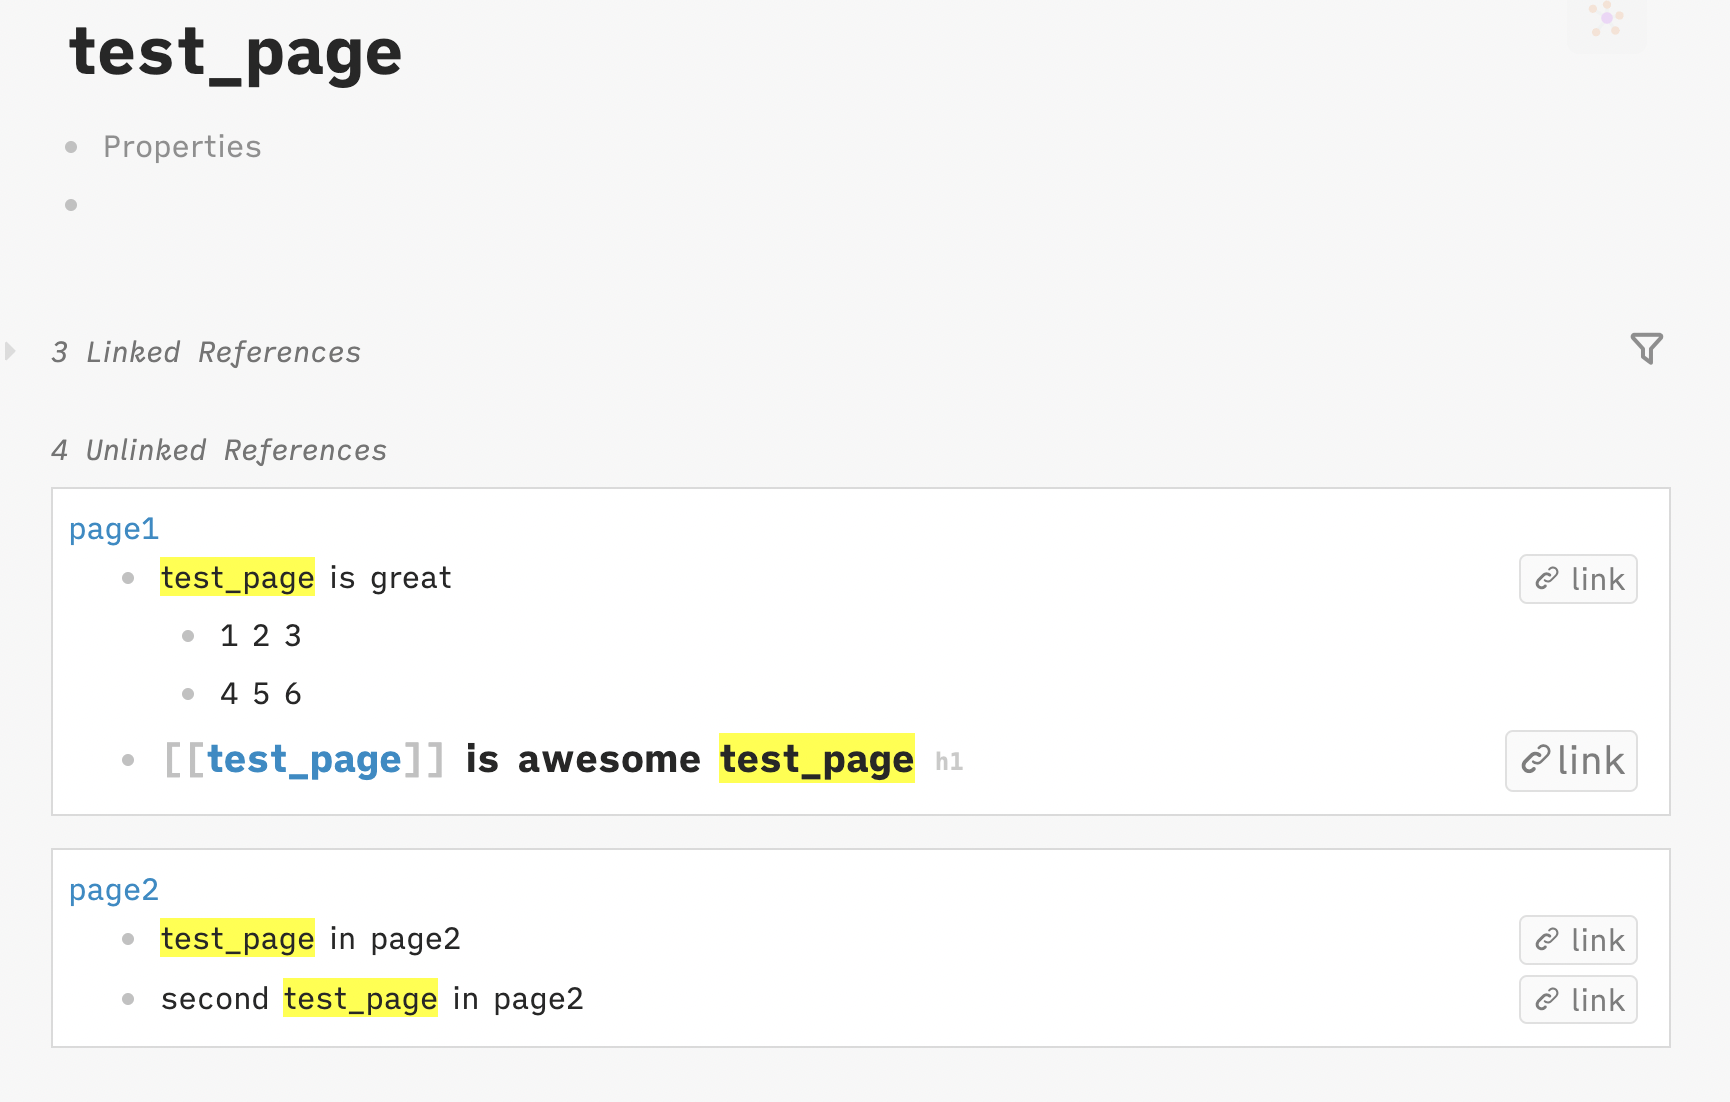
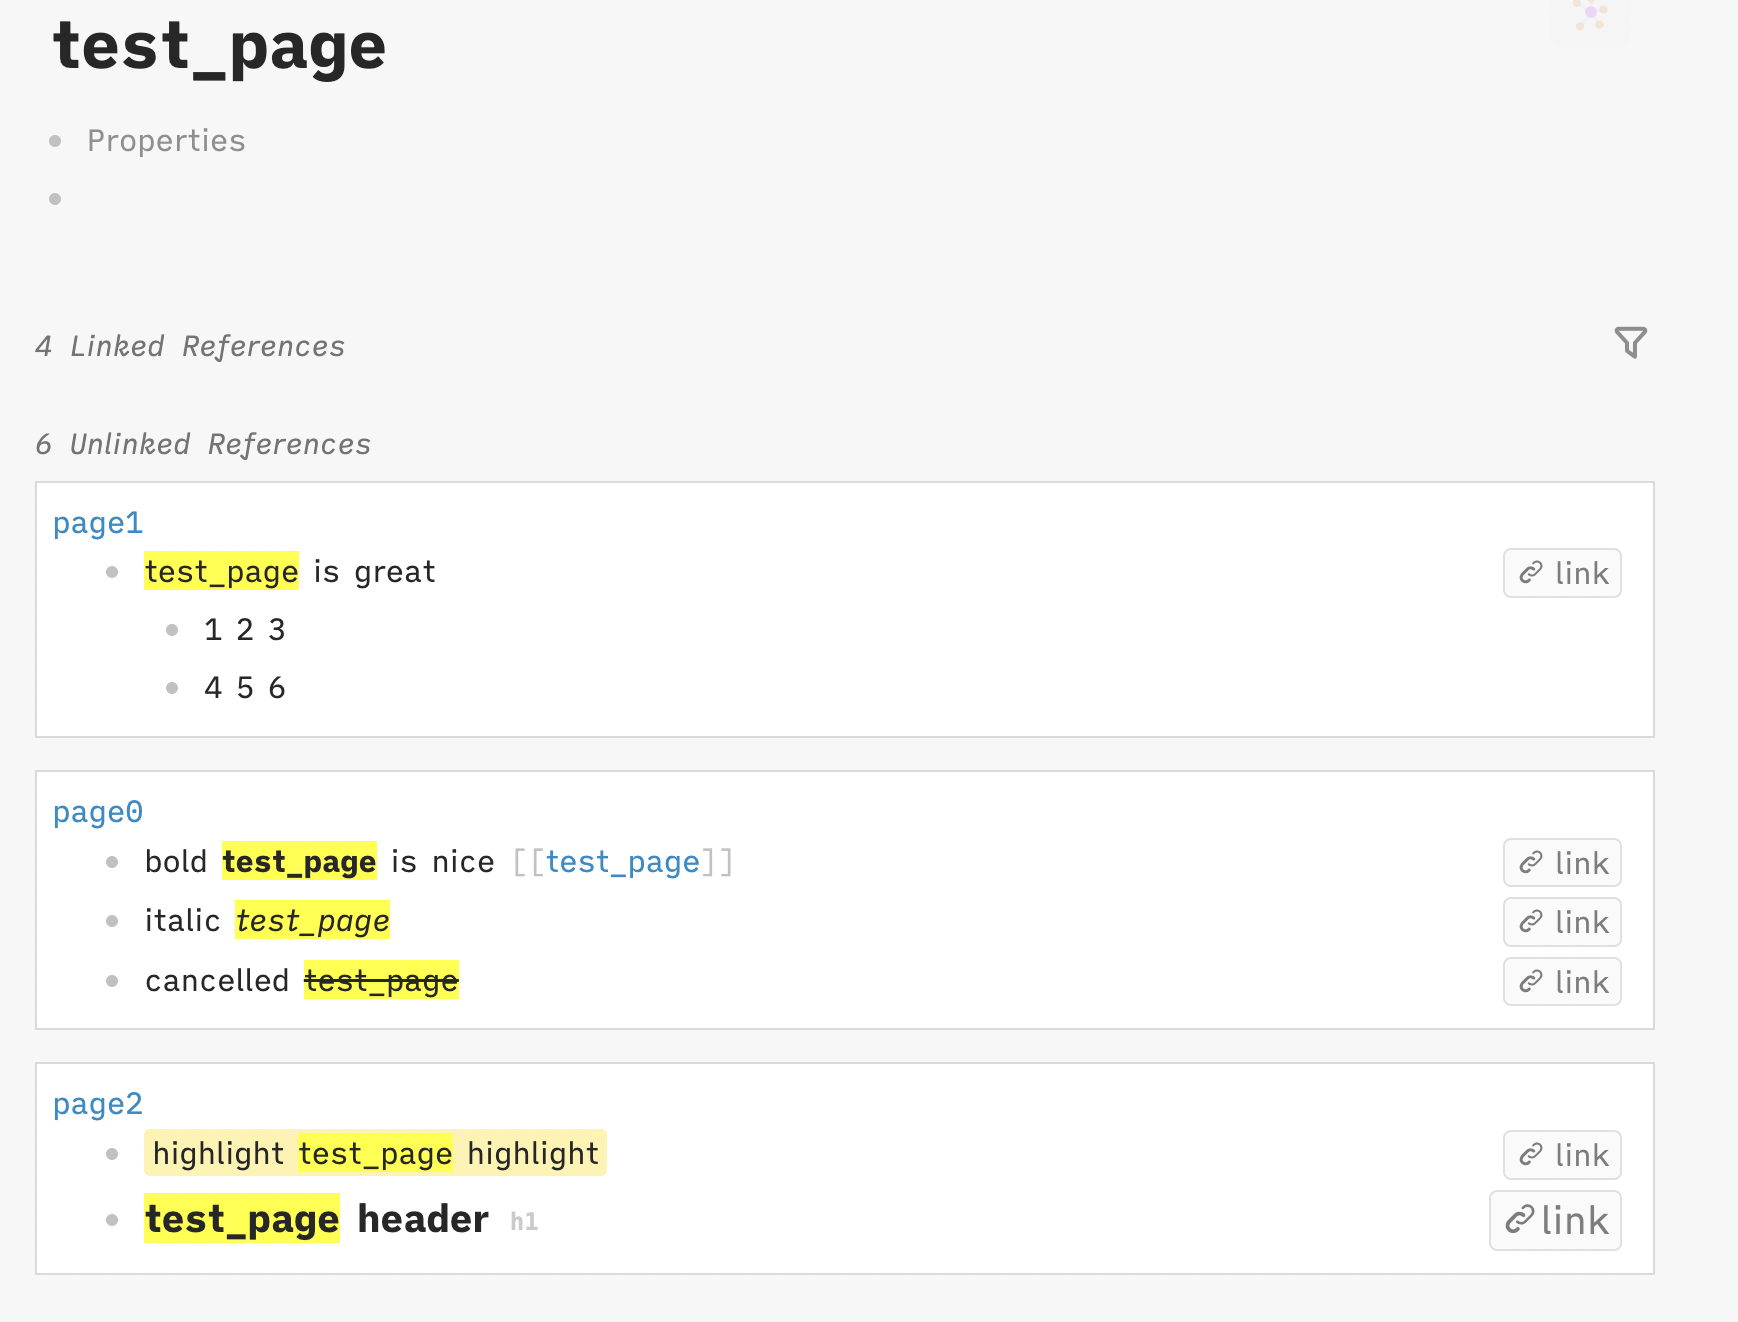
feat: highlight the bold, italic and mark text

diff --git a/public/index.ts b/public/index.ts
@@ -145,6 +145,7 @@ function addButton(blockEl, pageNames, isPureText) {
   blockEl.querySelector(inlineSelector).appendChild(linkButton)
 }
 
+
 async function addHighlight(blockEl) {
   const inline = blockEl.querySelector(inlineSelector)
   if (!inline) {
@@ -155,17 +156,35 @@ async function addHighlight(blockEl) {
   const reStr = '(' + pageNames.join('|') + ')'
   const re = new RegExp(reStr, "ig");
   let child = inline.firstChild
-  let processChild = []
+  let inlineText = []  // pure text in first level of inline
+  let boldText = [];  // bold, italic, mark text in second level of inline
 
   while (child) {
-    if (child.nodeType == 3) {
-      processChild.push(child)
+    if (child.nodeType == 3 ) {
+      inlineText.push(child)
+    }
+
+    if(['B', 'I', 'EM', 'STRONG', 'MARK', 'DEL'].includes(child.tagName)) {
+      boldText.push({
+        "parent": child,
+        "children": []
+      })
     }
 
     child = child.nextSibling;
   }
 
-  processChild.forEach(child => {
+  for(let i=0; i < boldText.length; i++) {
+    child = boldText[i]["parent"].firstChild
+    while (child) {
+      if (child.nodeType == 3 ) {
+        boldText[i]["children"].push(child)
+      }
+      child = child.nextSibling;
+    }
+  }
+
+  function newHighlightNode(child) {
     const text = child.textContent
     if (re.test(text)) {
       const isPureText = inline.tagName == "SPAN"
@@ -174,7 +193,17 @@ async function addHighlight(blockEl) {
     let domText = text.replace(re, `<span class="${highlightClass}">$1</span>`)
     let newDom = document.createElement("span");
     newDom.innerHTML = domText
-    inline.replaceChild(newDom, child)
+    return newDom
+  }
+
+  inlineText.forEach(child => {
+    inline.replaceChild(newHighlightNode(child), child)
+  })
+
+  boldText.forEach(boldNode => {
+    boldNode["children"].forEach(c => {
+      boldNode["parent"].replaceChild(newHighlightNode(c), c)
+    })
   })
 }
 
